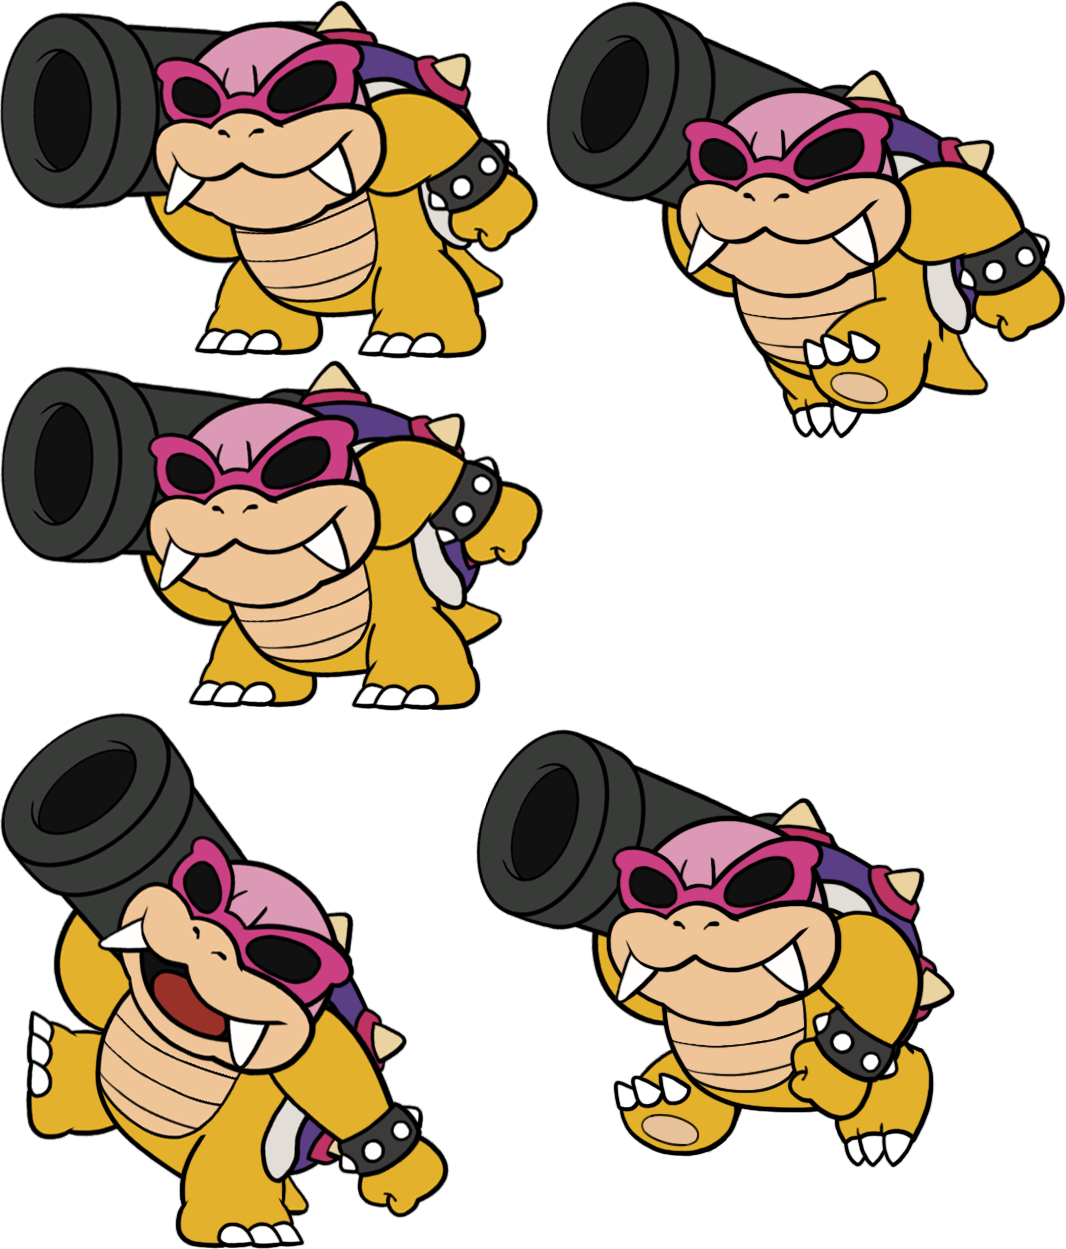
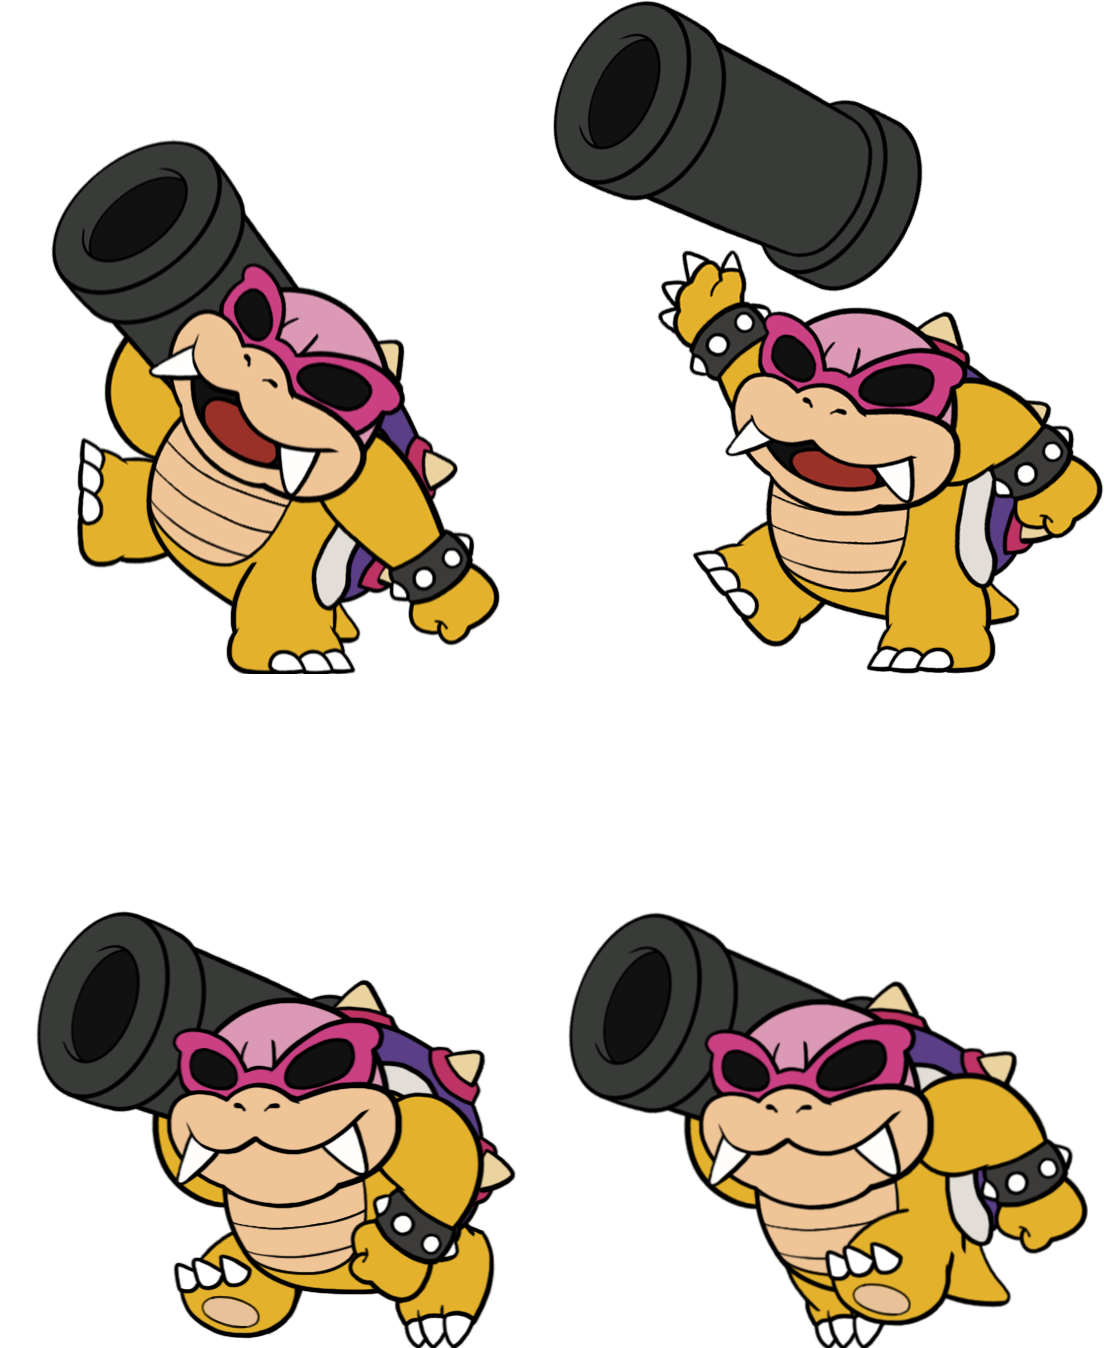
Animate dragon on menu scene

diff --git a/docs/assets/scripts/menu.js b/docs/assets/scripts/menu.js
@@ -17,6 +17,8 @@ var BubbleGunner;
         var Graphics = createjs.Graphics;
         var Tween = createjs.Tween;
         var Sound = createjs.Sound;
+        var SpriteSheet = createjs.SpriteSheet;
+        var Sprite = createjs.Sprite;
         var MenuScene = (function (_super) {
             __extends(MenuScene, _super);
             function MenuScene() {
@@ -31,17 +33,43 @@ var BubbleGunner;
                 _this._btnStartGame.regX = _this._btnStartGame.image.width / 2;
                 _this._btnStartGame.regY = _this._btnStartGame.image.height / 2;
                 _this._btnStartGame.x = BubbleGunner.NormalWidth / 2;
-                _this._btnStartGame.y = BubbleGunner.NormalHeight / 2 - 100;
+                _this._btnStartGame.y = BubbleGunner.NormalHeight / 2;
                 _this._btnStartGame.cursor = "pointer";
                 setInterval(_this.pulse.bind(_this), 120);
                 _this._btnStartGame.on("click", _this.onStartButtonClick, _this);
+                _this.addChild(_this._btnStartGame);
                 _this._btnHelp = new Bitmap(BubbleGunner.loader.getResult("menu-help"));
-                _this._btnHelp.x = 50;
-                _this._btnHelp.y = BubbleGunner.NormalHeight - _this._btnHelp.image.height - 50;
+                _this._btnHelp.x = BubbleGunner.NormalWidth - _this._btnHelp.image.width - 50;
+                _this._btnHelp.y = 50;
                 _this._btnHelp.cursor = "pointer";
                 _this._btnHelp.on("click", _this.onHelpButtonClick, _this);
-                _this.addChild(_this._btnStartGame);
                 _this.addChild(_this._btnHelp);
+                var data = {
+                    images: [BubbleGunner.loader.getResult("menu-dragon")],
+                    frames: [
+                        // Cheer
+                        [0, 0, 552, 674],
+                        [552, 0, 552, 674],
+                        [0, 0, 552, 674],
+                        // Run
+                        [0, 674, 552, 674],
+                        [552, 674, 552, 674]
+                    ],
+                    framerate: 4,
+                    animations: {
+                        cheer: [0, 2, "run"],
+                        runCheer: [3, 4, "cheer"],
+                        run: [3, 4],
+                    }
+                };
+                _this._dragon = new Sprite(new SpriteSheet(data));
+                _this._dragon.regX = 226;
+                _this._dragon.regY = 337;
+                var n = 9;
+                _this._dragon.x = (n - 3) * BubbleGunner.NormalWidth / n;
+                _this._dragon.y = BubbleGunner.NormalHeight - 190;
+                _this._dragon.scaleX = _this._dragon.scaleY = .4;
+                _this.addChild(_this._dragon);
                 return _this;
             }
             MenuScene.prototype.start = function () {
@@ -49,6 +77,9 @@ var BubbleGunner;
                 for (var _i = 0; _i < arguments.length; _i++) {
                     args[_i] = arguments[_i];
                 }
+                this._dragon.on("animationend", this.moveDragon, this);
+                this._dragon.gotoAndPlay("run");
+                this.moveDragon(undefined);
             };
             MenuScene.prototype.onStartButtonClick = function () {
                 var _this = this;
@@ -66,6 +97,21 @@ var BubbleGunner;
             MenuScene.prototype.onHelpButtonClick = function () {
                 Sound.play("sound-button");
                 this.dispatchEvent(new BubbleGunner.SceneEvent(BubbleGunner.Scene.EventChangeScene, BubbleGunner.SceneType.Help));
+            };
+            MenuScene.prototype.moveDragon = function (evt) {
+                var _this = this;
+                if (evt && evt.name !== "cheer")
+                    return;
+                console.debug("Dragon running to other side");
+                var n = 9;
+                var newX = this._dragon.scaleX > 0 ? 3 * BubbleGunner.NormalWidth / n : (n - 3) * BubbleGunner.NormalWidth / n;
+                Tween.get(this._dragon).to({
+                    x: newX
+                }, 2.5 * 1000)
+                    .call(function () {
+                    _this._dragon.gotoAndPlay("cheer");
+                    _this._dragon.scaleX *= -1;
+                });
             };
             MenuScene.prototype.pulse = function () {
                 var newScale = this._btnStartGame.scaleX + 0.05;

diff --git a/docs/assets/scripts/menu.ts b/docs/assets/scripts/menu.ts
@@ -4,10 +4,13 @@ namespace BubbleGunner.Menu {
     import Graphics = createjs.Graphics;
     import Tween = createjs.Tween;
     import Sound = createjs.Sound;
+    import SpriteSheet = createjs.SpriteSheet;
+    import Sprite = createjs.Sprite;
 
     export class MenuScene extends Scene {
         private _btnStartGame: Bitmap;
         private _btnHelp: Bitmap;
+        private _dragon: Sprite;
 
         constructor() {
             super();
@@ -24,23 +27,55 @@ namespace BubbleGunner.Menu {
             this._btnStartGame.regX = this._btnStartGame.image.width / 2;
             this._btnStartGame.regY = this._btnStartGame.image.height / 2;
             this._btnStartGame.x = NormalWidth / 2;
-            this._btnStartGame.y = NormalHeight / 2 - 100;
+            this._btnStartGame.y = NormalHeight / 2;
             this._btnStartGame.cursor = `pointer`;
             setInterval(this.pulse.bind(this), 120);
             this._btnStartGame.on(`click`, this.onStartButtonClick, this);
+            this.addChild(this._btnStartGame);
 
             this._btnHelp = new Bitmap(loader.getResult(`menu-help`));
-            this._btnHelp.x = 50;
-            this._btnHelp.y = NormalHeight - this._btnHelp.image.height - 50;
+            this._btnHelp.x = NormalWidth - this._btnHelp.image.width - 50;
+            this._btnHelp.y = 50;
             this._btnHelp.cursor = "pointer";
             this._btnHelp.on("click", this.onHelpButtonClick, this);
-
-            this.addChild(this._btnStartGame);
             this.addChild(this._btnHelp);
+
+            let data = {
+                images: [loader.getResult(`menu-dragon`)],
+                frames: [
+                    // Cheer
+                    [0, 0, 552, 674],
+                    [552, 0, 552, 674],
+                    [0, 0, 552, 674],
+
+                    // Run
+                    [0, 674, 552, 674],
+                    [552, 674, 552, 674]
+                ],
+                framerate: 4,
+                animations: {
+                    cheer: [0, 2, `run`],
+                    runCheer: [3, 4, `cheer`],
+                    run: [3, 4],
+                }
+            };
+            this._dragon = new Sprite(new SpriteSheet(data));
+            this._dragon.regX = 226;
+            this._dragon.regY = 337;
+
+            const n = 9;
+            this._dragon.x = (n - 3) * NormalWidth / n;
+            this._dragon.y = NormalHeight - 190;
+            this._dragon.scaleX = this._dragon.scaleY = .4;
+
+            this.addChild(this._dragon);
         }
 
         public start(...args: any[]): void {
+            this._dragon.on(`animationend`, this.moveDragon, this);
+            this._dragon.gotoAndPlay(`run`);
 
+            this.moveDragon(undefined);
         }
 
         private onStartButtonClick(): void {
@@ -59,6 +94,22 @@ namespace BubbleGunner.Menu {
         private onHelpButtonClick(): void {
             Sound.play(`sound-button`);
             this.dispatchEvent(new SceneEvent(Scene.EventChangeScene, SceneType.Help));
+        }
+
+        private moveDragon(evt: any): void {
+            if (evt && evt.name !== `cheer`) return;
+
+            console.debug(`Dragon running to other side`);
+            const n = 9;
+
+            let newX = this._dragon.scaleX > 0 ? 3 * NormalWidth / n : (n - 3) * NormalWidth / n;
+            Tween.get(this._dragon).to({
+                x: newX
+            }, 2.5 * 1000)
+                .call(() => {
+                    this._dragon.gotoAndPlay(`cheer`);
+                    this._dragon.scaleX *= -1;
+                });
         }
 
         private pulse(): void {

diff --git a/docs/assets/scripts/preload.js b/docs/assets/scripts/preload.js
@@ -52,6 +52,7 @@ var BubbleGunner;
                     { id: "heart", src: "images/heart.png" },
                     // Menu
                     { id: "menu-volcano", src: "images/volcano-menu.png" },
+                    { id: "menu-dragon", src: "images/dragon-menu.png" },
                     { id: "menu-start", src: "images/start.png" },
                     { id: "menu-help", src: "images/help.png" },
                     // Game - Images

diff --git a/docs/assets/scripts/preload.ts b/docs/assets/scripts/preload.ts
@@ -46,6 +46,7 @@ namespace BubbleGunner.Menu {
 
                 // Menu
                 {id: `menu-volcano`, src: `images/volcano-menu.png`},
+                {id: `menu-dragon`, src: `images/dragon-menu.png`},
                 {id: `menu-start`, src: `images/start.png`},
                 {id: `menu-help`, src: `images/help.png`},
 
